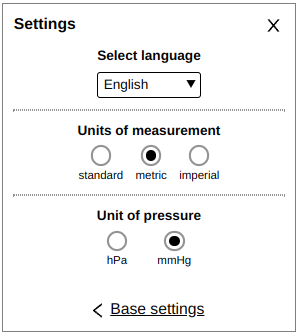
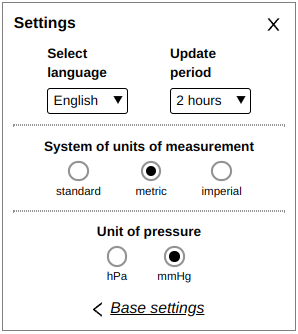
added update period to settings, styling, edit README.md

diff --git a/src/components/SettingsOptions.vue b/src/components/SettingsOptions.vue
@@ -1,19 +1,30 @@
 <template>
   <div class="settings-options">
-    <SelectLanguage
-      :lang="lang"
-      :dict="dict"
-      :disabled="isLoading"
-      class="settings-options__block settings-options__language"
-      @change-language="emit('change-language', $event)"
-    />
+    <div class="settings-options__block settings-options__wrapper">
+      <SelectLanguage
+        :lang="lang"
+        :dict="dict"
+        :disabled="isLoading"
+        class="settings-options__block settings-options__language"
+        @change-language="emit('change-settings', { lang: $event })"
+      />
+      <SelectUpdatePeriod
+        :updatePeriod="updatePeriod"
+        :dict="dict"
+        :disabled="isLoading"
+        class="settings-options__update-period"
+        @change-update-period="
+          emit('change-settings', { updatePeriod: $event })
+        "
+      />
+    </div>
     <hr class="settings-options__hr" />
     <SelectUnits
       :units="units"
       :dict="dict"
       :disabled="isLoading"
       class="settings-options__block settings-options__units"
-      @change-units="emit('change-units', $event)"
+      @change-units="emit('change-settings', { units: $event })"
     />
     <hr class="settings-options__hr" />
     <SelectPressure
@@ -21,27 +32,25 @@
       :dict="dict"
       :disabled="isLoading"
       class="settings-options__block settings-options__pressure"
-      @change-pressure-unit="emit('change-pressure-unit', $event)"
+      @change-pressure-unit="emit('change-settings', { pressureUnit: $event })"
     />
   </div>
 </template>
 
 <script setup lang="ts">
 import { defineEmits, defineProps } from "vue";
-import { TLanguage, TUnits, TPressureUnit } from "@/types";
+import { TLanguage, TUnits, TPressureUnit, TUpdatePeriod } from "@/types";
 import { IDictionary } from "@/locales/types";
 import SelectLanguage from "@/components/SelectLanguage.vue";
 import SelectUnits from "@/components/SelectUnits.vue";
 import SelectPressure from "@/components/SelectPressure.vue";
+import SelectUpdatePeriod from "@/components/SelectUpdatePeriod.vue";
 
-const emit = defineEmits([
-  "change-language",
-  "change-units",
-  "change-pressure-unit",
-]);
+const emit = defineEmits(["change-settings"]);
 
 defineProps<{
   lang: TLanguage;
+  updatePeriod: TUpdatePeriod;
   units: TUnits;
   pressureUnit: TPressureUnit;
   dict: IDictionary;

diff --git a/src/WeatherWidget.ce.vue b/src/WeatherWidget.ce.vue
@@ -11,6 +11,7 @@
     :locations-list="locationsList"
     :dict="dict[props.lang]"
     :lang="props.lang"
+    :updatePeriod="props.updatePeriod"
     :units="props.units"
     :pressure-unit="props.pressureUnit"
     :apiUrl="props.apiUrl"
@@ -68,6 +69,7 @@ import {
   ISettings,
   IWeatherLocationTimestamped,
   TLanguage,
+  TUpdatePeriod,
   TUnits,
   TPressureUnit,
 } from "@/types";
@@ -82,12 +84,14 @@ const API_KEY: string = process.env.VUE_APP_API_KEY || "";
 
 const props = reactive<{
   lang: TLanguage;
+  updatePeriod: TUpdatePeriod;
   units: TUnits;
   pressureUnit: TPressureUnit;
   apiUrl: string;
   apiKey: string;
 }>({
   lang: "en",
+  updatePeriod: 2,
   units: "metric",
   pressureUnit: "hPa",
   apiUrl: API_URL,
@@ -108,6 +112,7 @@ function getInitData() {
   if (settings)
     ({
       lang: props.lang,
+      updatePeriod: props.updatePeriod,
       units: props.units,
       pressureUnit: props.pressureUnit,
     } = settings);
@@ -155,7 +160,8 @@ function refreshAllLocalData() {
 }
 function refreshOutdatedLocalData() {
   const outdatedElements = getOutdatedWeatherLocationIndexes(
-    locationsList.value
+    locationsList.value,
+    props.updatePeriod
   );
   refreshLocalData(outdatedElements);
 }
@@ -206,11 +212,17 @@ function onReload() {
   errStatus.value = "";
   getInitData();
 }
-function changeSettings({ lang, units, pressureUnit }: ISettings) {
-  setLocalStorageSettings({ lang, units, pressureUnit });
+function changeSettings({
+  lang = props.lang,
+  updatePeriod = props.updatePeriod,
+  units = props.units,
+  pressureUnit = props.pressureUnit,
+}: ISettings) {
+  setLocalStorageSettings({ lang, updatePeriod, units, pressureUnit });
   // At first necessary change props.lang and props.units,
   // because it uses for network queries in refreshLocalData() function.
   props.lang = lang;
+  props.updatePeriod = updatePeriod;
   props.units = units;
   props.pressureUnit = pressureUnit;
   refreshAllLocalData();

diff --git a/src/components/SelectUpdatePeriod.vue b/src/components/SelectUpdatePeriod.vue
@@ -1,0 +1,47 @@
+<template>
+  <div class="select-update-period">
+    <label for="select-update-period" class="select-update-period__label">
+      {{ dict.updatePeriodTitle }}
+    </label>
+
+    <select
+      v-model="periodModel"
+      id="select-update-period"
+      name="update-period"
+      :disabled="disabled"
+      :style="{
+        backgroundImage: `url(${require('@/assets/icons/triangle.svg')})`,
+      }"
+      class="select-update-period__select"
+      @change="onChange"
+    >
+      <option v-for="item in UPDATE_PERIODS" :key="item" :value="item">
+        {{ item }}
+        {{ pluralize(item, dict.oneHour, dict.twoHours, dict.fiveHours) }}
+      </option>
+    </select>
+  </div>
+</template>
+
+<script setup lang="ts">
+import { defineEmits, defineProps, onBeforeMount, ref } from "vue";
+import { pluralize } from "@/utils";
+import { TUpdatePeriod, UPDATE_PERIODS } from "@/types";
+import { IDictionary } from "@/locales/types";
+
+const emit = defineEmits(["change-update-period"]);
+
+const props = defineProps<{
+  updatePeriod: TUpdatePeriod;
+  dict: IDictionary;
+  disabled: boolean;
+}>();
+
+onBeforeMount(() => (periodModel.value = props.updatePeriod));
+
+const periodModel = ref<TUpdatePeriod>(2);
+
+function onChange() {
+  emit("change-update-period", periodModel.value);
+}
+</script>

diff --git a/src/components/SettingsSection.vue b/src/components/SettingsSection.vue
@@ -5,20 +5,13 @@
     <SettingsOptions
       v-if="additionalSettingsModel"
       :lang="lang"
+      :updatePeriod="updatePeriod"
       :units="units"
       :pressure-unit="pressureUnit"
       :dict="dict"
       :is-loading="isLoading"
       class="settings-section__options"
-      @change-language="
-        emit('change-settings', { lang: $event, units, pressureUnit })
-      "
-      @change-units="
-        emit('change-settings', { lang, units: $event, pressureUnit })
-      "
-      @change-pressure-unit="
-        emit('change-settings', { lang, units, pressureUnit: $event })
-      "
+      @change-settings="emit('change-settings', $event)"
     />
 
     <template v-else>
@@ -72,6 +65,7 @@ import { defineEmits, defineProps, ref } from "vue";
 import {
   IWeatherLocationTimestamped,
   TLanguage,
+  TUpdatePeriod,
   TUnits,
   TPressureUnit,
 } from "@/types";
@@ -91,6 +85,7 @@ const emit = defineEmits([
 defineProps<{
   locationsList: IWeatherLocationTimestamped[];
   lang: TLanguage;
+  updatePeriod: TUpdatePeriod;
   units: TUnits;
   pressureUnit: TPressureUnit;
   apiUrl: string;

diff --git a/src/locales/ru-RU.ts b/src/locales/ru-RU.ts
@@ -22,7 +22,7 @@ const ru: IDictionary = {
   tryReload: 'нажмите кнопку "перезагрузить" для обновления виджета',
   reload: "Перезагрузить",
   selectLanguage: "Выберите язык",
-  selectUnits: "Единицы измерения",
+  selectUnits: "Система единиц измерения",
   selectPressure: "Единица измерения давления",
   additionalSettings: "Дополнительные настройки",
   baseSettings: "Основные настройки",
@@ -57,5 +57,9 @@ const ru: IDictionary = {
     NW: "СЗ",
     NNW: "ССЗ",
   },
+  updatePeriodTitle: "Период обновления",
+  oneHour: "час",
+  twoHours: "часа",
+  fiveHours: "часов",
 };
 export default ru;

diff --git a/src/utils/getOutdatedWeatherLocationIndexes.ts b/src/utils/getOutdatedWeatherLocationIndexes.ts
@@ -1,11 +1,10 @@
 import { millisecondsToHours } from "date-fns";
 import { IWeatherLocationTimestamped } from "@/types/weatherLocation";
-
-const UPDATE_PERIOD_IN_HOURS: number =
-  process.env.VUE_APP_UPDATE_PERIOD_IN_HOURS || 2;
+import { TUpdatePeriod } from "@/types";
 
 export function getOutdatedWeatherLocationIndexes(
-  list: IWeatherLocationTimestamped[]
+  list: IWeatherLocationTimestamped[],
+  updatePeriod: TUpdatePeriod = 2
 ): number[] {
   const outdatedList: number[] = [];
 
@@ -14,7 +13,7 @@ export function getOutdatedWeatherLocationIndexes(
       Date.now() - list[i].lastUpdated
     );
 
-    if (hoursFromLastUpdate >= UPDATE_PERIOD_IN_HOURS) {
+    if (hoursFromLastUpdate >= updatePeriod) {
       outdatedList.push(i);
     }
   }

diff --git a/src/locales/en-US.ts b/src/locales/en-US.ts
@@ -22,7 +22,7 @@ const en: IDictionary = {
   tryReload: "try to press reload button for update widget",
   reload: "Reload",
   selectLanguage: "Select language",
-  selectUnits: "Units of measurement",
+  selectUnits: "System of units of measurement",
   selectPressure: "Unit of pressure",
   additionalSettings: "Additional settings",
   baseSettings: "Base settings",
@@ -57,5 +57,9 @@ const en: IDictionary = {
     NW: "NW",
     NNW: "NNW",
   },
+  updatePeriodTitle: "Update period",
+  oneHour: "hour",
+  twoHours: "hours",
+  fiveHours: "hours",
 };
 export default en;

diff --git a/src/assets/styles/select-language&update-period.scss b/src/assets/styles/select-language&update-period.scss
@@ -1,4 +1,5 @@
-.select-language {
+.select-language,
+.select-update-period {
   display: flex;
   flex-direction: column;
 
@@ -6,13 +7,15 @@
 
   &__label {
     display: block;
+    width: min-content;
     margin-bottom: 5px;
 
     font-weight: bold;
+    line-height: 18px;
   }
 
   &__select {
-    padding: 0.1em 2em 0.1em 0.4em;
+    padding: 0.1em 1.5em 0.1em 0.4em;
 
     border: 1px solid;
     border-radius: 3px;

diff --git a/src/utils/pluralize.ts b/src/utils/pluralize.ts
@@ -1,0 +1,20 @@
+export function pluralize(
+  number: number,
+  one: string,
+  two: string,
+  five: string
+) {
+  let n = Math.abs(number);
+  n %= 100;
+  if (n >= 5 && n <= 20) {
+    return five;
+  }
+  n %= 10;
+  if (n === 1) {
+    return one;
+  }
+  if (n >= 2 && n <= 4) {
+    return two;
+  }
+  return five;
+}

diff --git a/src/types/settings.ts b/src/types/settings.ts
@@ -1,7 +1,8 @@
-import { TLanguage, TPressureUnit, TUnits } from "@/types";
+import { TLanguage, TPressureUnit, TUnits, TUpdatePeriod } from "@/types";
 
 export interface ISettings {
   lang: TLanguage;
+  updatePeriod: TUpdatePeriod;
   units: TUnits;
   pressureUnit: TPressureUnit;
 }

diff --git a/src/locales/types.ts b/src/locales/types.ts
@@ -30,6 +30,10 @@ export interface IDictionary {
   units: TUnitsAll;
   pressureUnits: TPressureUnits;
   windDirections: TDirections;
+  updatePeriodTitle: string;
+  oneHour: string;
+  twoHours: string;
+  fiveHours: string;
 }
 
 type TLanguages = {

diff --git a/src/assets/styles/settings-options.scss b/src/assets/styles/settings-options.scss
@@ -3,6 +3,12 @@
   flex-direction: column;
   align-items: center;
 
+  &__wrapper {
+    display: grid;
+    gap: 40px;
+    grid-template-columns: 1fr 1fr;
+  }
+
   &__block + &__block {
     margin-top: 20px;
   }
